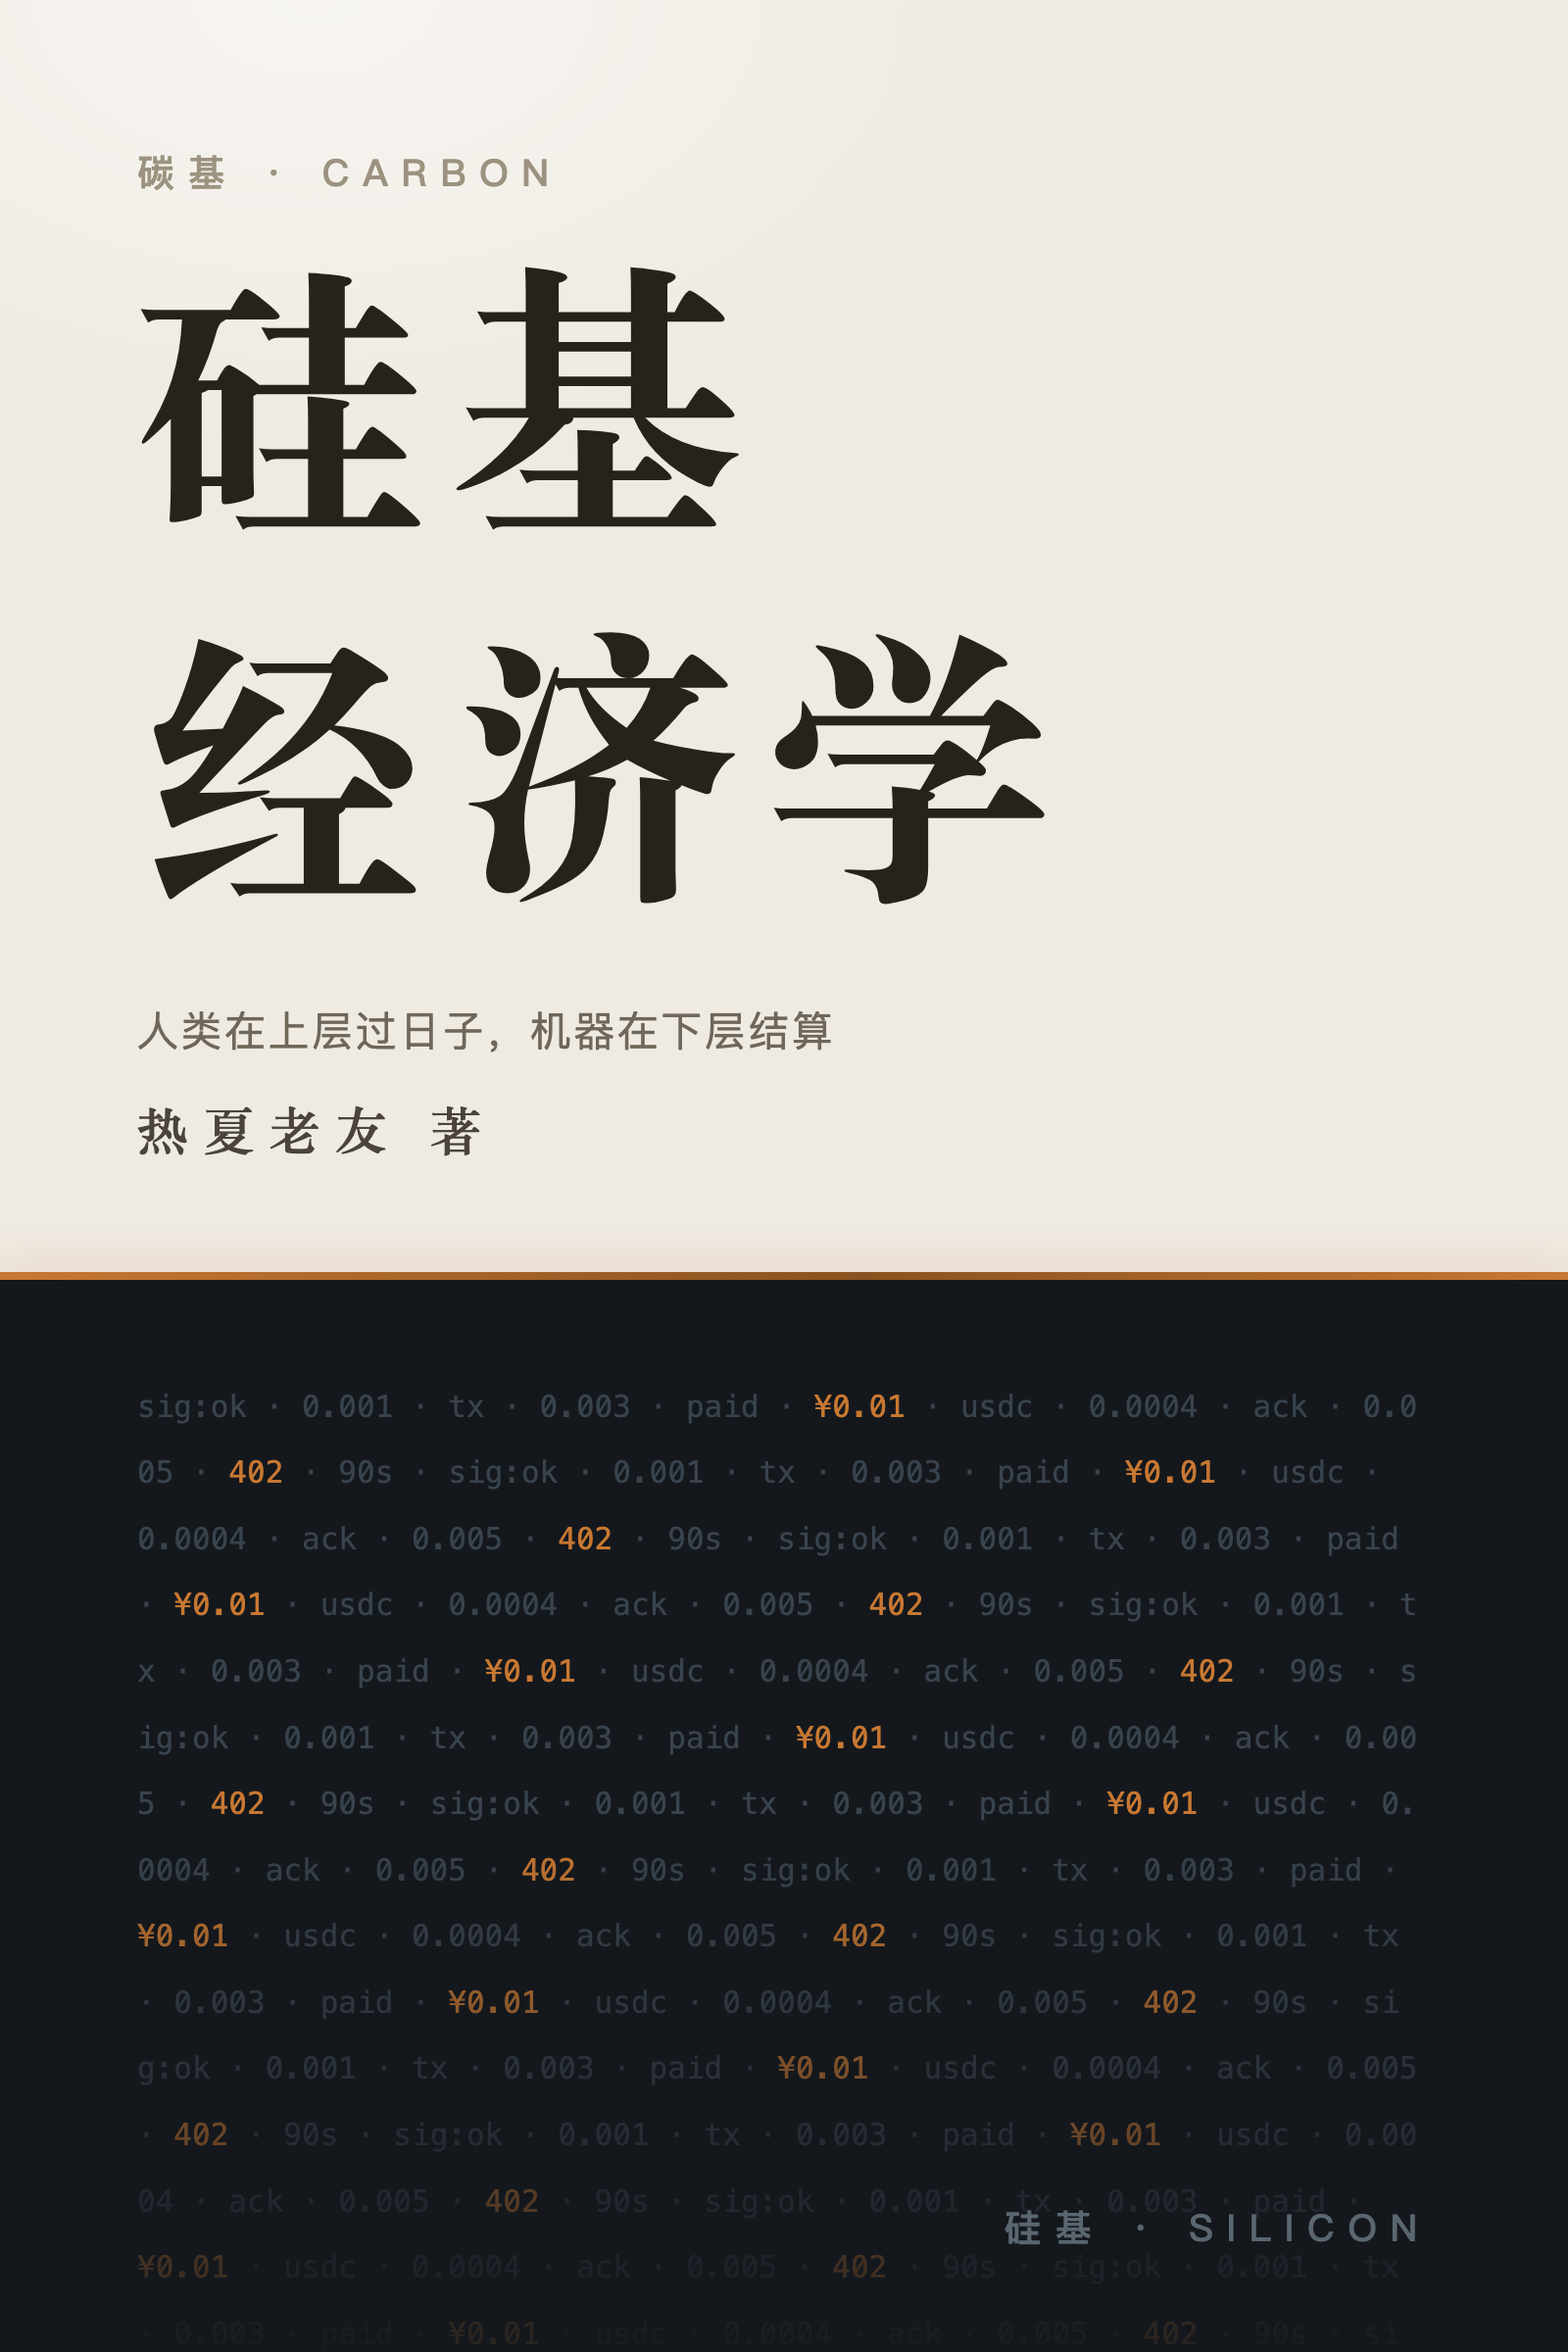
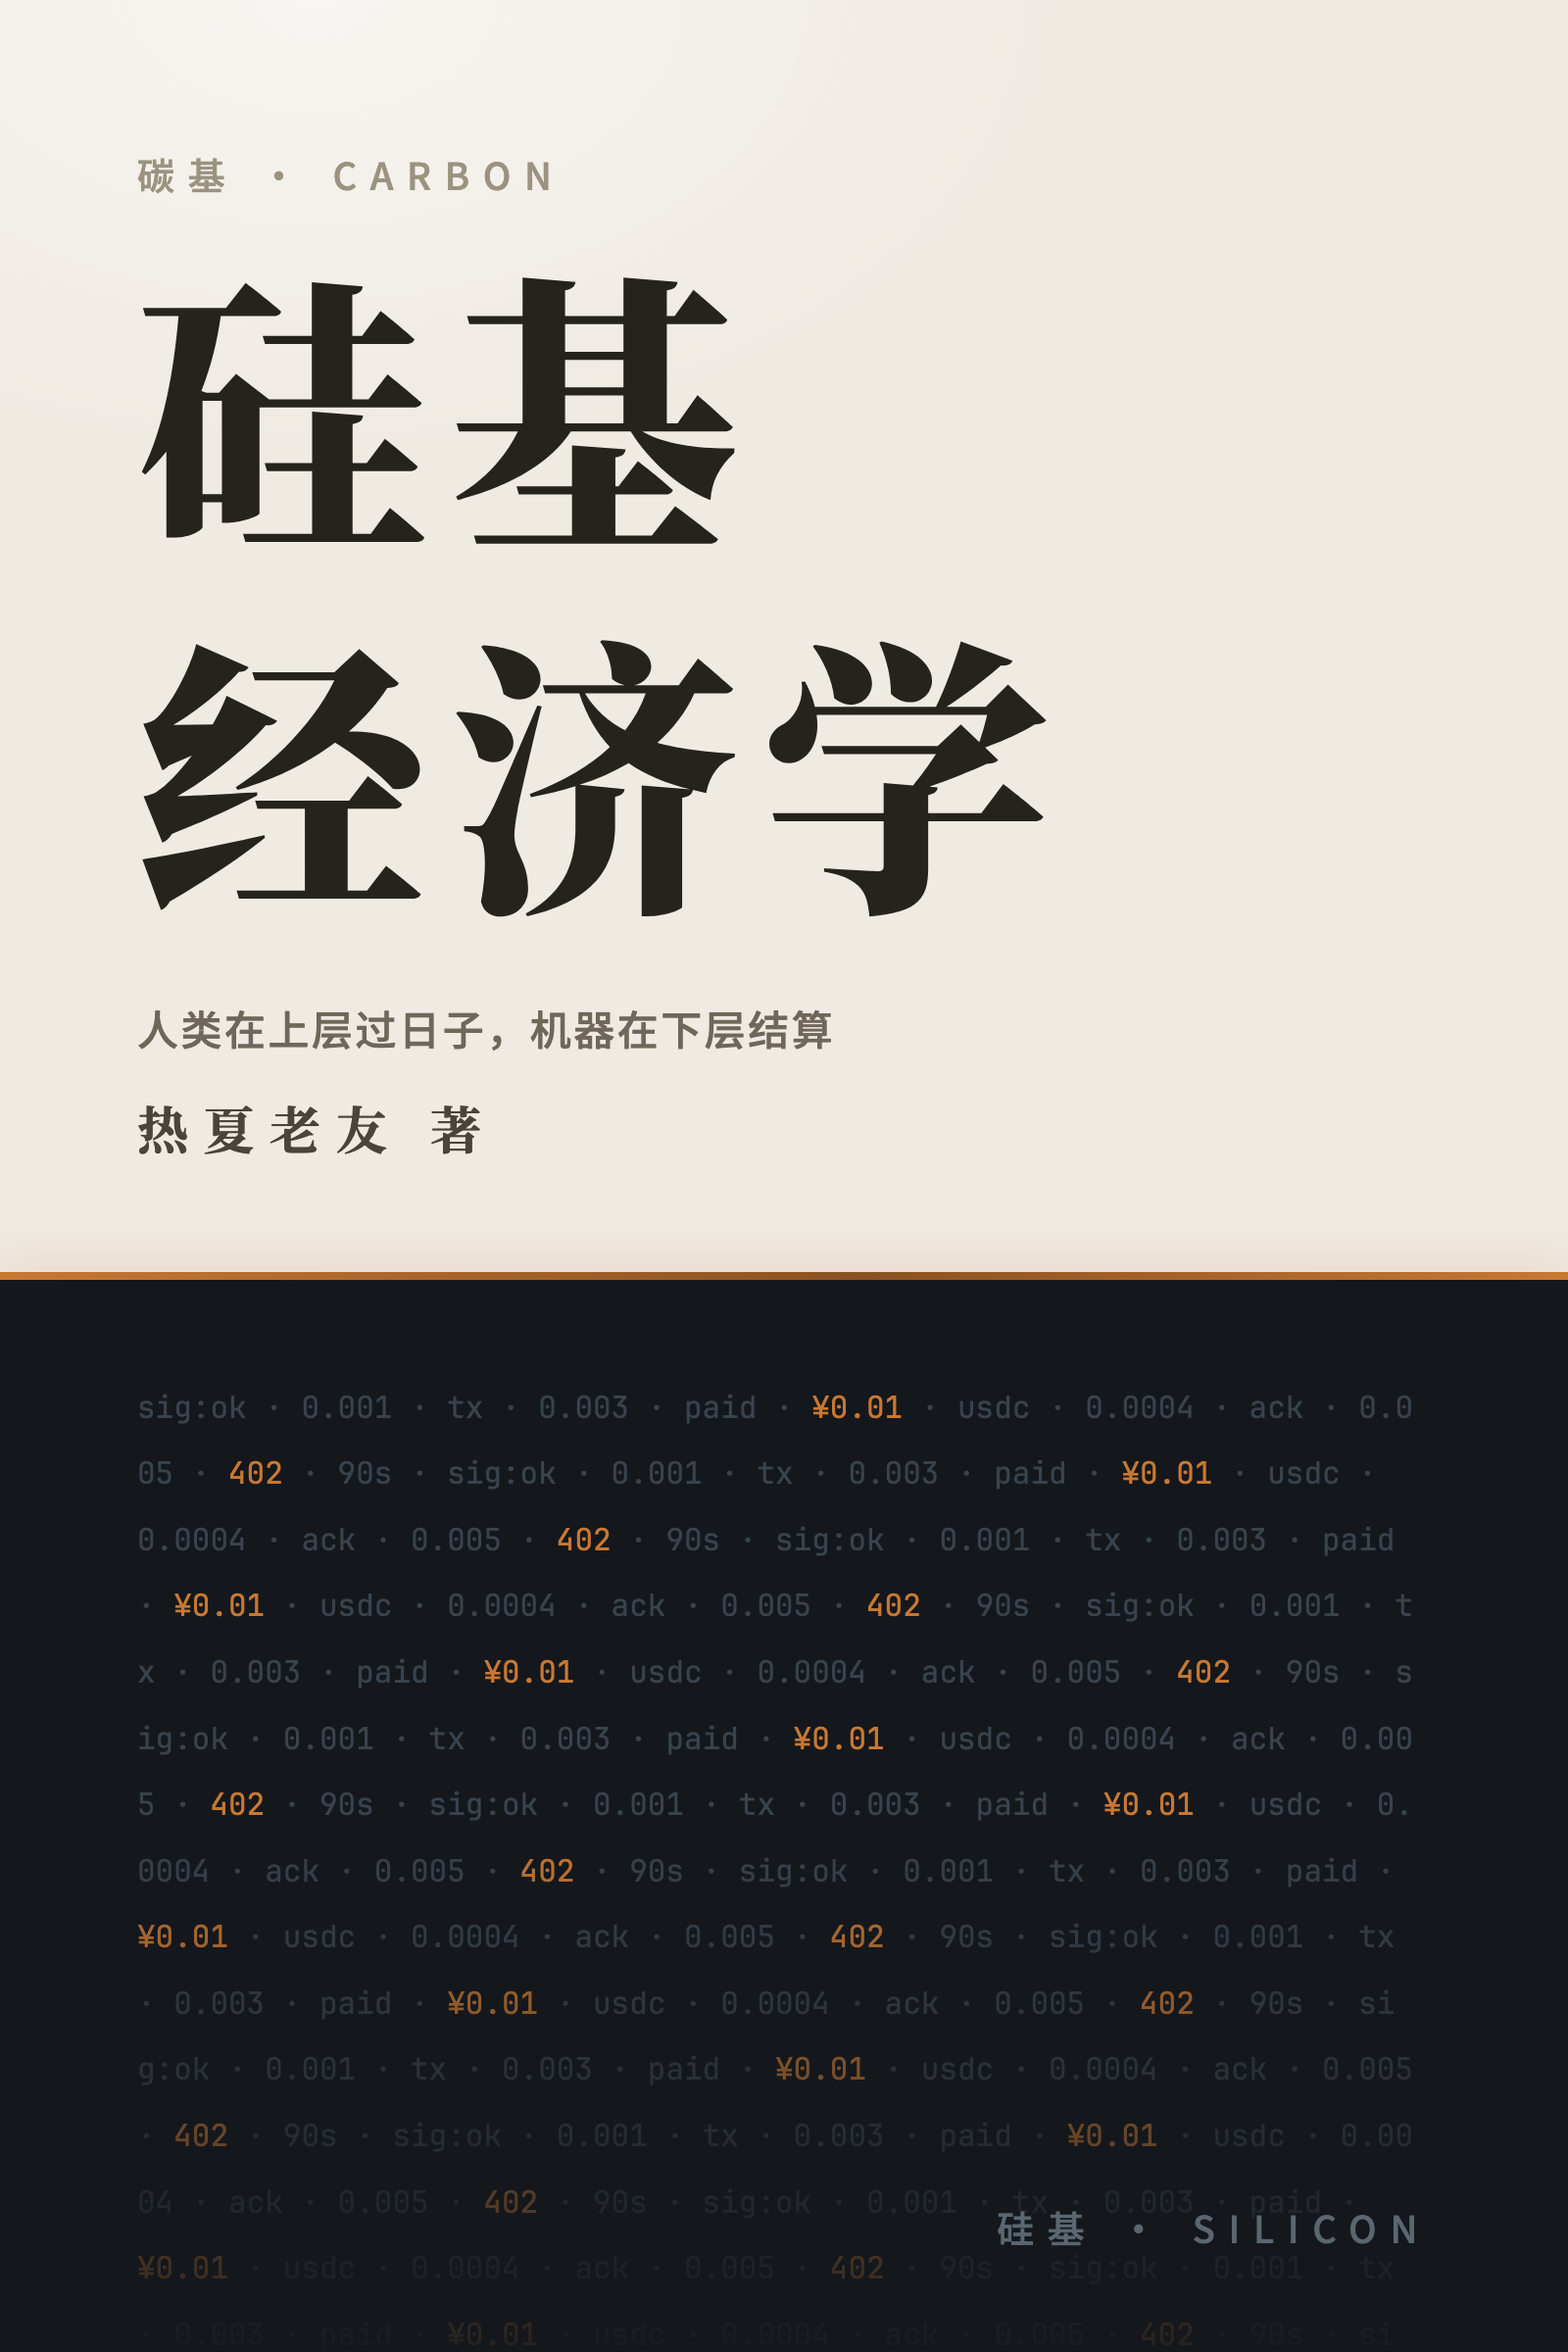
封面：字体换为思源宋体/思源黑体/JetBrains Mono（OFL 可商用）
原版封面书名用 macOS 系统宋体，商用发行有授权风险；现全部替换为 OFL 开源字体重新渲染：书名/署名用思源宋体 Heavy/Bold，标签/副题用思源黑体 Medium，交易流水用 JetBrains Mono。版式配色未动。字体文件体积大不入库，提示词文档已补下载地址与复刻步骤。

diff --git a/封面-方案C-出图源文件.html b/封面-方案C-出图源文件.html
@@ -2,8 +2,34 @@
 <html lang="zh-CN">
 <head>
 <meta charset="UTF-8">
-<title>硅基经济学 · 封面终稿 C</title>
+<title>硅基经济学 · 封面终稿 C（思源字体版）</title>
 <style>
+  /* 全部使用可商用开源字体：
+     思源宋体 Source Han Serif SC (OFL) — 书名/署名
+     思源黑体 Source Han Sans SC (OFL) — 标签/副题
+     JetBrains Mono (OFL) — 交易流水
+     字体文件置于同目录 fonts/ 下 */
+  @font-face{
+    font-family:"Source Han Serif SC";
+    src:url("fonts/SourceHanSerifSC-Heavy.otf") format("opentype");
+    font-weight:900;
+  }
+  @font-face{
+    font-family:"Source Han Serif SC";
+    src:url("fonts/SourceHanSerifSC-Bold.otf") format("opentype");
+    font-weight:700;
+  }
+  @font-face{
+    font-family:"Source Han Sans SC";
+    src:url("fonts/SourceHanSansSC-Medium.otf") format("opentype");
+    font-weight:500;
+  }
+  @font-face{
+    font-family:"JetBrains Mono";
+    src:url("fonts/JetBrainsMono-Regular.ttf") format("truetype");
+    font-weight:400;
+  }
+
   *{margin:0; padding:0; box-sizing:border-box}
   html,body{width:1600px; height:2400px; overflow:hidden}
   body{ display:flex; flex-direction:column; background:#EFEAE2; }
@@ -17,20 +43,20 @@
       #EFEAE2;
   }
   .label-c{
-    font-family:"PingFang SC","Noto Sans SC",sans-serif;
-    font-size:38px; letter-spacing:.36em; color:#9B937F; font-weight:500;
+    font-family:"Source Han Sans SC",sans-serif; font-weight:500;
+    font-size:38px; letter-spacing:.36em; color:#9B937F;
   }
   .title{
-    font-family:"Songti SC","Noto Serif SC","STSong",serif;
+    font-family:"Source Han Serif SC",serif;
     font-size:295px; font-weight:900; letter-spacing:.08em;
     line-height:1.26; margin-top:auto; color:#26231D;
   }
   .sub{
-    font-family:"PingFang SC","Noto Sans SC",sans-serif;
+    font-family:"Source Han Sans SC",sans-serif; font-weight:500;
     font-size:42px; color:#6E675A; margin-top:52px; letter-spacing:.06em;
   }
   .author{
-    font-family:"Songti SC","Noto Serif SC","STSong",serif;
+    font-family:"Source Han Serif SC",serif;
     font-size:52px; color:#4A443A; margin-top:34px; letter-spacing:.3em; font-weight:700;
   }
 
@@ -46,15 +72,15 @@
     padding:96px 140px;
   }
   .stream{
-    font-family:"Menlo","SF Mono",monospace;
+    font-family:"JetBrains Mono",monospace; font-weight:400;
     font-size:31px; line-height:2.18; color:#39434D;
     word-break:break-all; user-select:none;
   }
   .stream b{ color:#C87832; font-weight:400 }
   .label-s{
     position:absolute; right:140px; bottom:100px; z-index:2;
-    font-family:"PingFang SC","Noto Sans SC",sans-serif;
-    font-size:38px; letter-spacing:.36em; color:#5A6670; font-weight:500;
+    font-family:"Source Han Sans SC",sans-serif; font-weight:500;
+    font-size:38px; letter-spacing:.36em; color:#5A6670;
   }
   .lower::after{
     content:""; position:absolute; inset:0; z-index:1;

diff --git a/封面-方案C-提示词.md b/封面-方案C-提示词.md
@@ -36,15 +36,33 @@ editorial book design, flat, precise, no people, no objects
 | 署名 | 热夏老友 著 | 宋体加粗，加宽字距 |
 | 右下角标签 | 硅基 · SILICON | 黑体，加宽字距，蓝灰 |
 
+## 字体（全部 OFL 开源协议，可商用，不入库）
+
+| 用途 | 字体 | 文件 |
+|---|---|---|
+| 书名/署名 | 思源宋体 Source Han Serif SC | SourceHanSerifSC-Heavy.otf / -Bold.otf |
+| 标签/副题 | 思源黑体 Source Han Sans SC | SourceHanSansSC-Medium.otf |
+| 交易流水 | JetBrains Mono | JetBrainsMono-Regular.ttf |
+
+字体文件体积大（共约 66MB）不入 git，复刻前先下载到源文件同目录的 `fonts/` 文件夹：
+
+```bash
+mkdir -p fonts && cd fonts
+curl -sSL -O "https://github.com/adobe-fonts/source-han-serif/raw/release/OTF/SimplifiedChinese/SourceHanSerifSC-Heavy.otf"
+curl -sSL -O "https://github.com/adobe-fonts/source-han-serif/raw/release/OTF/SimplifiedChinese/SourceHanSerifSC-Bold.otf"
+curl -sSL -O "https://github.com/adobe-fonts/source-han-sans/raw/release/OTF/SimplifiedChinese/SourceHanSansSC-Medium.otf"
+curl -sSL -O "https://github.com/JetBrains/JetBrainsMono/raw/master/fonts/ttf/JetBrainsMono-Regular.ttf"
+```
+
 ## 复刻 / 改版方法
 
-改文字或配色后重新出图，只需编辑 HTML 源文件并执行：
+改文字或配色后重新出图：编辑 HTML 源文件（需与 `fonts/` 同目录），然后执行：
 
 ```bash
 "/Applications/Google Chrome.app/Contents/MacOS/Google Chrome" \
   --headless=new --disable-gpu --hide-scrollbars \
   --window-size=1600,2400 \
   --screenshot=封面-方案C-1600x2400.png \
-  --virtual-time-budget=3000 \
+  --virtual-time-budget=5000 --allow-file-access-from-files \
   "file:///Volumes/Samsung/book/封面-方案C-出图源文件.html"
 ```
